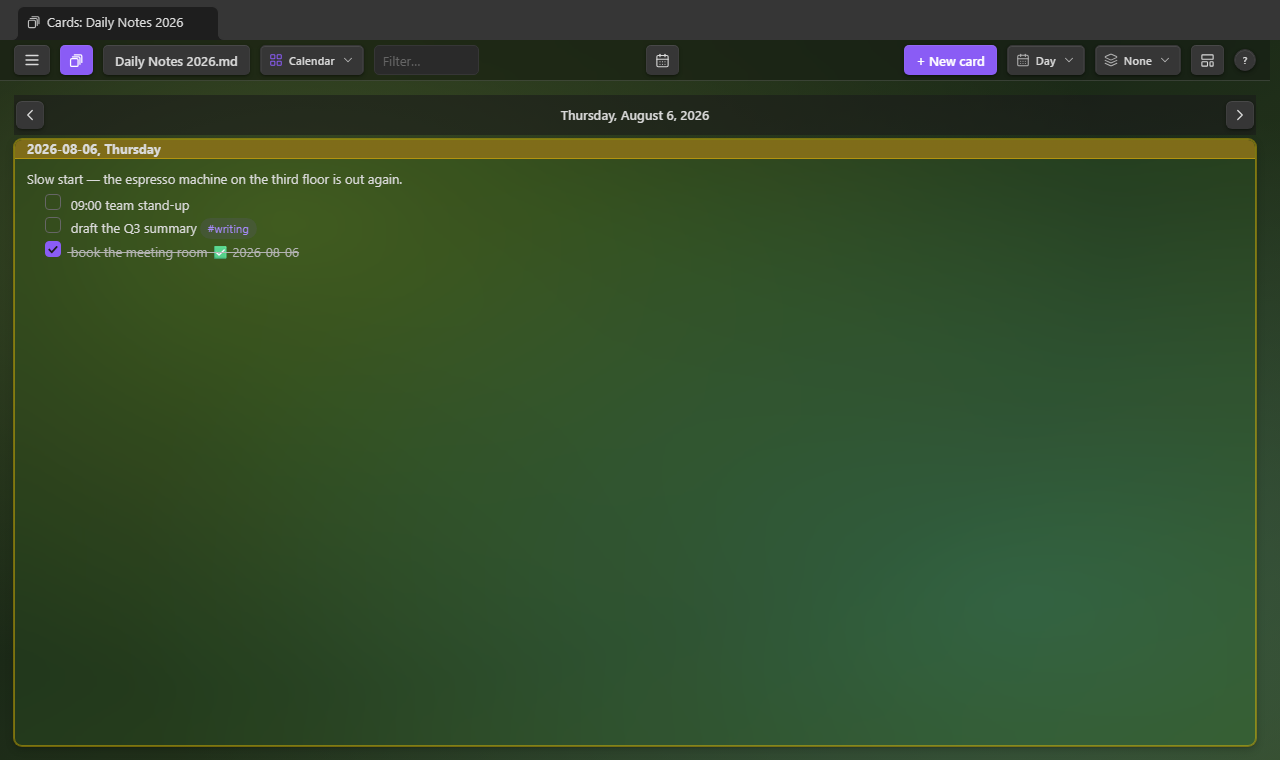
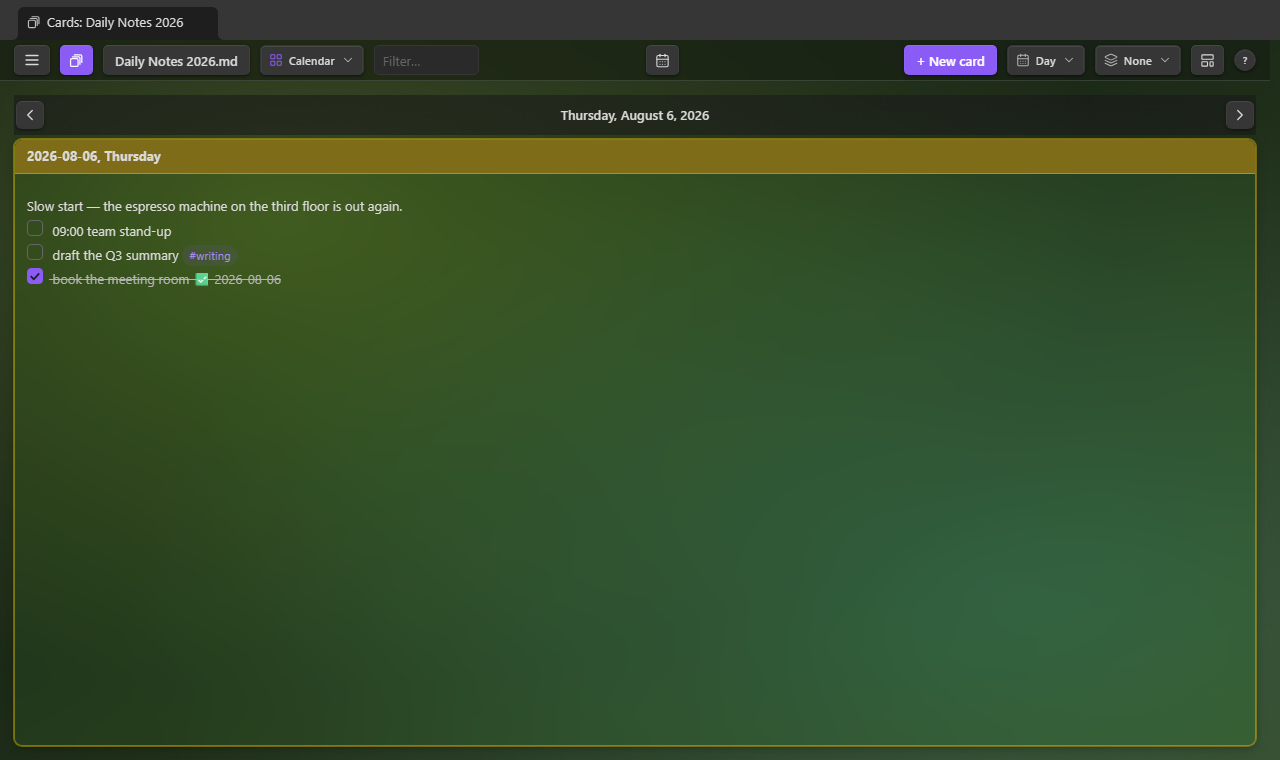
The Week and Day ranges read at the ordinary card size
Only a month has to fit thirty-odd days on one screen, so only a month pays for
it. The shrunken type, tight padding, half-size checkboxes and flush-left lists
now hang off .is-cal-month rather than the layout, and the Week and Day ranges
inherit the card styling every other layout uses — which also lets their own
bespoke overrides go.

The Month range is untouched: it renders byte-identical to its screenshot.

Changed region(s): [[0.0, 0.1816, 1.0, 0.3934]]

diff --git a/styles.css b/styles.css
@@ -1015,10 +1015,14 @@ body.is-mobile .is-layout-tight .section-card-body {
 
 /* Day cards are uniform squares-ish cells; clicking one opens it big. */
 .is-layout-calendar .section-card {
-	height: var(--sfsc-cal-cell, 112px);
 	min-width: 0;
 	overflow: hidden;
 	cursor: zoom-in;
+}
+
+/* A month's days are uniform cells; the Week and Day ranges size their own below. */
+.is-cal-month .section-card {
+	height: var(--sfsc-cal-cell, 112px);
 }
 
 /* The card is a fixed-height flex column: without these, a full body used to
@@ -1026,7 +1030,6 @@ body.is-mobile .is-layout-tight .section-card-body {
    is pinned to one tight line on every card; the body absorbs the rest. */
 .is-layout-calendar .section-card .section-card-header {
 	flex: 0 0 auto;
-	padding: 0 8px;
 	min-height: 0;
 }
 
@@ -1037,14 +1040,25 @@ body.is-mobile .is-layout-tight .section-card-body {
 	display: none;
 }
 
-.is-layout-calendar .section-card .section-card-title {
+.is-layout-calendar .section-card .section-card-body {
+	flex: 1 1 auto;
+	min-height: 0;
+}
+
+/* ---------- the Month range's shrunken cards ----------
+   Only a month has to fit thirty-odd days on one screen, so only a month pays for
+   it: smaller type, tight padding, half-size checkboxes and flush lists. The Week
+   and Day ranges give a day room, and read at the size every other layout uses. */
+.is-cal-month .section-card .section-card-header {
+	padding: 0 8px;
+}
+
+.is-cal-month .section-card .section-card-title {
 	font-size: calc(var(--font-ui-smaller) * 0.85);
 	line-height: 1.4;
 }
 
-.is-layout-calendar .section-card .section-card-body {
-	flex: 1 1 auto;
-	min-height: 0;
+.is-cal-month .section-card .section-card-body {
 	padding: 4px 8px 6px;
 	font-size: calc(var(--font-ui-smaller) * 0.85);
 	overflow: hidden;
@@ -1057,15 +1071,15 @@ body.is-mobile .is-layout-tight .section-card-body {
 
 /* A day made big is a normal card again: the checkbox size falls back to what
    the theme sets everywhere else (inherit reaches past the cell-size override). */
-.is-layout-calendar .section-card.is-maximized .section-card-body {
+.is-cal-month .section-card.is-maximized .section-card-body {
 	--checkbox-size: inherit;
 }
 
 /* Lists sit flush with the card edge: core indents top-level items a fixed 3ch.
    Bullet/number markers move inside the line so zero margin can't clip them;
    task items render their checkbox inline and need no room at all. */
-.is-layout-calendar .section-card .section-card-body ul > li,
-.is-layout-calendar .section-card .section-card-body ol > li {
+.is-cal-month .section-card .section-card-body ul > li,
+.is-cal-month .section-card .section-card-body ol > li {
 	margin-inline-start: 0;
 	list-style-position: inside;
 }
@@ -1178,43 +1192,12 @@ body.is-mobile .is-layout-tight .section-card-body {
 	position: static;
 }
 
-/* A day shown on its own is a card read at normal size — the month grid's shrunken
-   type, tight padding and half-size checkboxes are for fitting a month on a screen.
-   It edits on click like a card anywhere else, so it wears the ordinary cursor. */
+/* The Week and Day ranges take the card styling every other layout uses — type,
+   padding, checkboxes and list indents all default, because only the Month range
+   scopes the shrunken versions. A lone day also edits on click like a card
+   anywhere else, so it wears the ordinary cursor rather than the zoom-in one. */
 .is-cal-day .section-cards-grid .section-card {
 	cursor: default;
-}
-
-.is-cal-day .section-cards-grid .section-card .section-card-header {
-	padding: 0 12px;
-}
-
-.is-cal-day .section-cards-grid .section-card .section-card-title {
-	font-size: var(--font-ui-small);
-}
-
-.is-cal-day .section-cards-grid .section-card .section-card-body {
-	padding: 10px 12px 12px;
-	font-size: calc(var(--font-ui-small) * var(--sfsc-font-scale, 1));
-	overflow-y: auto;
-	--checkbox-size: inherit;
-}
-
-/* …and its lists indent as the other layouts' do (the rules below, which the layout
-   class holds off the calendar): markers outside, a hair of indent. The flush-left
-   markers of a day cell are there to buy width back, which a whole pane doesn't need. */
-.is-cal-day .section-cards-grid .section-card .section-card-body ul > li,
-.is-cal-day .section-cards-grid .section-card .section-card-body ol > li {
-	list-style-position: outside;
-	margin-inline-start: 0.8em;
-}
-
-.is-cal-day .section-cards-grid .section-card .section-card-body ol > li {
-	margin-inline-start: 2ch;
-}
-
-.is-cal-day .section-cards-grid .section-card .section-card-body ul > li.task-list-item {
-	margin-inline-start: calc(var(--checkbox-size, 1em) * 1.5);
 }
 
 /* A lone empty day is a big square: its offer sits in the middle of it, not tucked
@@ -4585,20 +4568,20 @@ body.is-mobile .section-card-body {
    so the item indents by exactly that hang. Top-level lists lose the 1.4em
    padding; nested ones keep it as the per-level step. The Calendar keeps its
    own flush, markers-inside rule. */
-.section-cards-view:not(.is-layout-calendar) .section-card-body > ul,
-.section-cards-view:not(.is-layout-calendar) .section-card-body > ol {
+.section-cards-view:not(.is-cal-month) .section-card-body > ul,
+.section-cards-view:not(.is-cal-month) .section-card-body > ol {
 	padding-inline-start: 0;
 }
 
-.section-cards-view:not(.is-layout-calendar) .section-card-body ul > li {
+.section-cards-view:not(.is-cal-month) .section-card-body ul > li {
 	margin-inline-start: 0.8em;
 }
 
-.section-cards-view:not(.is-layout-calendar) .section-card-body ol > li {
+.section-cards-view:not(.is-cal-month) .section-card-body ol > li {
 	margin-inline-start: 2ch;
 }
 
-.section-cards-view:not(.is-layout-calendar) .section-card-body ul > li.task-list-item {
+.section-cards-view:not(.is-cal-month) .section-card-body ul > li.task-list-item {
 	margin-inline-start: calc(var(--checkbox-size, 1em) * 1.5);
 }
 

diff --git a/tools/calendar-layout-note.md b/tools/calendar-layout-note.md
@@ -6,7 +6,8 @@
      Stage it under the sample vault's filename so the tab and file chip read
      "Daily Notes 2026", and shoot each range in turn — the default TODAY (2026-08-06)
      puts a ringed card in all three, with a blank Tuesday and a two-card weekend in
-     the Week range. WEEK_START=monday mirrors the plugin's own setting.
+     the Week range. The committed shots use the default (Sunday-first) week;
+     WEEK_START=monday stages the other setting.
        cp tools/calendar-layout-note.md "<outdir>/Daily Notes 2026.md"
        for r in month week day; do
          NOTE="<outdir>/Daily Notes 2026.md" CAL_RANGE=$r node tools/preview-harness.mjs <outdir>

diff --git a/README.md b/README.md
@@ -202,7 +202,8 @@ cell ringed even when it has no card yet. Click an empty day to start its card, 
 card onto another day to move it. Needs date headings.
 
 A **range** picker in the toolbar says how much of the calendar one screen holds: a month,
-a week, or a day. The range is remembered per note.
+a week, or a day. The range is remembered per note. Only the Month range shrinks its cards
+to fit thirty-odd days on one screen — Week and Day read at the ordinary card size.
 
 **Month** — every month between the first and last dated card, scrolling, under a pinned row
 of weekday names. The sort control orders the months.
